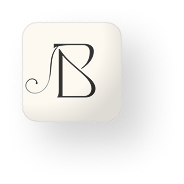
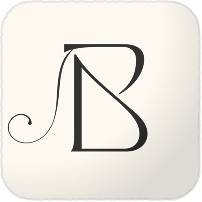
Better landing page, next to do: - Add the other setup images - Use higher quality flower image and use webp instead - Add animations

diff --git a/components/landing/landing-nav.tsx b/components/landing/landing-nav.tsx
@@ -6,23 +6,23 @@ import { cn } from "@/lib/utils";
 import { LandingLogo } from "./landing-logo";
 
 const navLinks = [
-  { href: "#features", label: "Product" },
+  { href: "#solutions", label: "Solutions" },
+  { href: "#features", label: "Features" },
   { href: "#pricing", label: "Pricing" },
-  { href: "#about", label: "About" },
 ];
 
 export function LandingNav() {
   return (
     <header className="sticky top-0 z-50 border-b border-landing-ink/5 bg-landing-cream/90 backdrop-blur-md">
-      <div className="mx-auto flex h-16 max-w-6xl items-center justify-between px-6 lg:h-[4.5rem] lg:px-8">
-        <LandingLogo />
+      <div className="mx-auto flex h-[4.25rem] max-w-6xl items-center justify-between px-6 lg:h-20 lg:px-8">
+        <LandingLogo className="[&_img]:h-10 sm:[&_img]:h-11" />
 
-        <nav className="hidden items-center gap-8 md:flex">
+        <nav className="hidden items-center gap-9 md:flex">
           {navLinks.map((link) => (
             <Link
               key={link.href}
               href={link.href}
-              className="text-base text-landing-ink/70 transition-colors hover:text-landing-ink"
+              className="font-serif text-lg text-landing-ink/70 transition-colors hover:text-landing-ink"
             >
               {link.label}
             </Link>
@@ -34,7 +34,7 @@ export function LandingNav() {
             asChild
             variant="ghost"
             className={cn(
-              "hidden h-9 rounded-full px-4 font-serif text-base text-landing-ink sm:inline-flex",
+              "hidden h-10 rounded-full px-5 font-serif text-lg text-landing-ink sm:inline-flex",
               "hover:bg-landing-ink/5"
             )}
           >
@@ -42,7 +42,7 @@ export function LandingNav() {
           </Button>
           <Button
             asChild
-            className="h-9 rounded-full bg-landing-rose px-5 font-serif text-base text-landing-cream-text hover:bg-landing-rose/90"
+            className="h-10 rounded-full bg-landing-rose px-6 font-serif text-lg text-landing-cream-text hover:bg-landing-rose/90"
           >
             <Link href="/auth?tab=signup">Waitlist</Link>
           </Button>

diff --git a/app/(marketing)/page.tsx b/app/(marketing)/page.tsx
@@ -24,7 +24,7 @@ export default function LandingPage() {
               <span className="block text-[#828282]">disappointed.</span>
             </>
           }
-          imageSrc="/landing/Problem1.png"
+          imageSrc="/landing/Problem1.webp"
           imageAlt="Calendar crowded with social media notifications"
         />
 
@@ -36,7 +36,7 @@ export default function LandingPage() {
               <span className="text-[#828282]">mistake</span> starts there too.
             </>
           }
-          imageSrc="/landing/Problem2.png"
+          imageSrc="/landing/Problem2.webp"
           imageAlt="WhatsApp chat showing a double booking"
           reverse
         />
@@ -53,7 +53,7 @@ export default function LandingPage() {
               </span>
             </>
           }
-          imageSrc="/landing/Problem3.png"
+          imageSrc="/landing/Problem3.webp"
           imageAlt="Brain connected to multiple apps and platforms"
         />
 

diff --git a/components/landing/landing-footer.tsx b/components/landing/landing-footer.tsx
@@ -61,14 +61,16 @@ export function LandingFooter() {
           <p className="font-serif text-sm text-landing-cream-text/50">
             Privacy · Terms
           </p>
-          <Image
-            src="/landing/Bridalync Icon.png"
-            alt=""
-            width={36}
-            height={36}
-            className="size-9 rounded-full bg-landing-cream-text p-1"
-            aria-hidden="true"
-          />
+          <span className="flex size-11 items-center justify-center overflow-hidden rounded-full bg-landing-cream-text">
+            <Image
+              src="/landing/Bridalync Icon.png"
+              alt=""
+              width={44}
+              height={44}
+              className="size-9 object-contain"
+              aria-hidden="true"
+            />
+          </span>
         </div>
       </div>
     </footer>

diff --git a/components/landing/landing-hero.tsx b/components/landing/landing-hero.tsx
@@ -18,7 +18,7 @@ export function LandingHero() {
 
       <div className="relative mx-auto max-w-6xl">
         <Image
-          src="/landing/Hero Image.png"
+          src="/landing/Hero Image.webp"
           alt=""
           width={1600}
           height={1067}
@@ -33,7 +33,7 @@ export function LandingHero() {
             alt="Bridalync"
             width={72}
             height={72}
-            className="mb-5 size-12 rounded-2xl shadow-sm sm:mb-6 sm:size-16"
+            className="mb-5 size-12 rounded-2xl drop-shadow-[6px_8px_10px_rgba(0,0,0,0.28)] sm:mb-6 sm:size-14 lg:size-16"
             priority
           />
 

diff --git a/components/landing/landing-setup.tsx b/components/landing/landing-setup.tsx
@@ -39,7 +39,7 @@ export function LandingSetup() {
 
         <div className="relative mx-auto w-full max-w-[420px] rotate-[-0.58deg] lg:-ml-10 lg:mx-0 lg:max-w-none xl:-ml-14">
           <Image
-            src="/landing/setup1.png"
+            src="/landing/setup1.webp"
             alt="Instagram bio with Bridalync booking link"
             width={520}
             height={1040}
